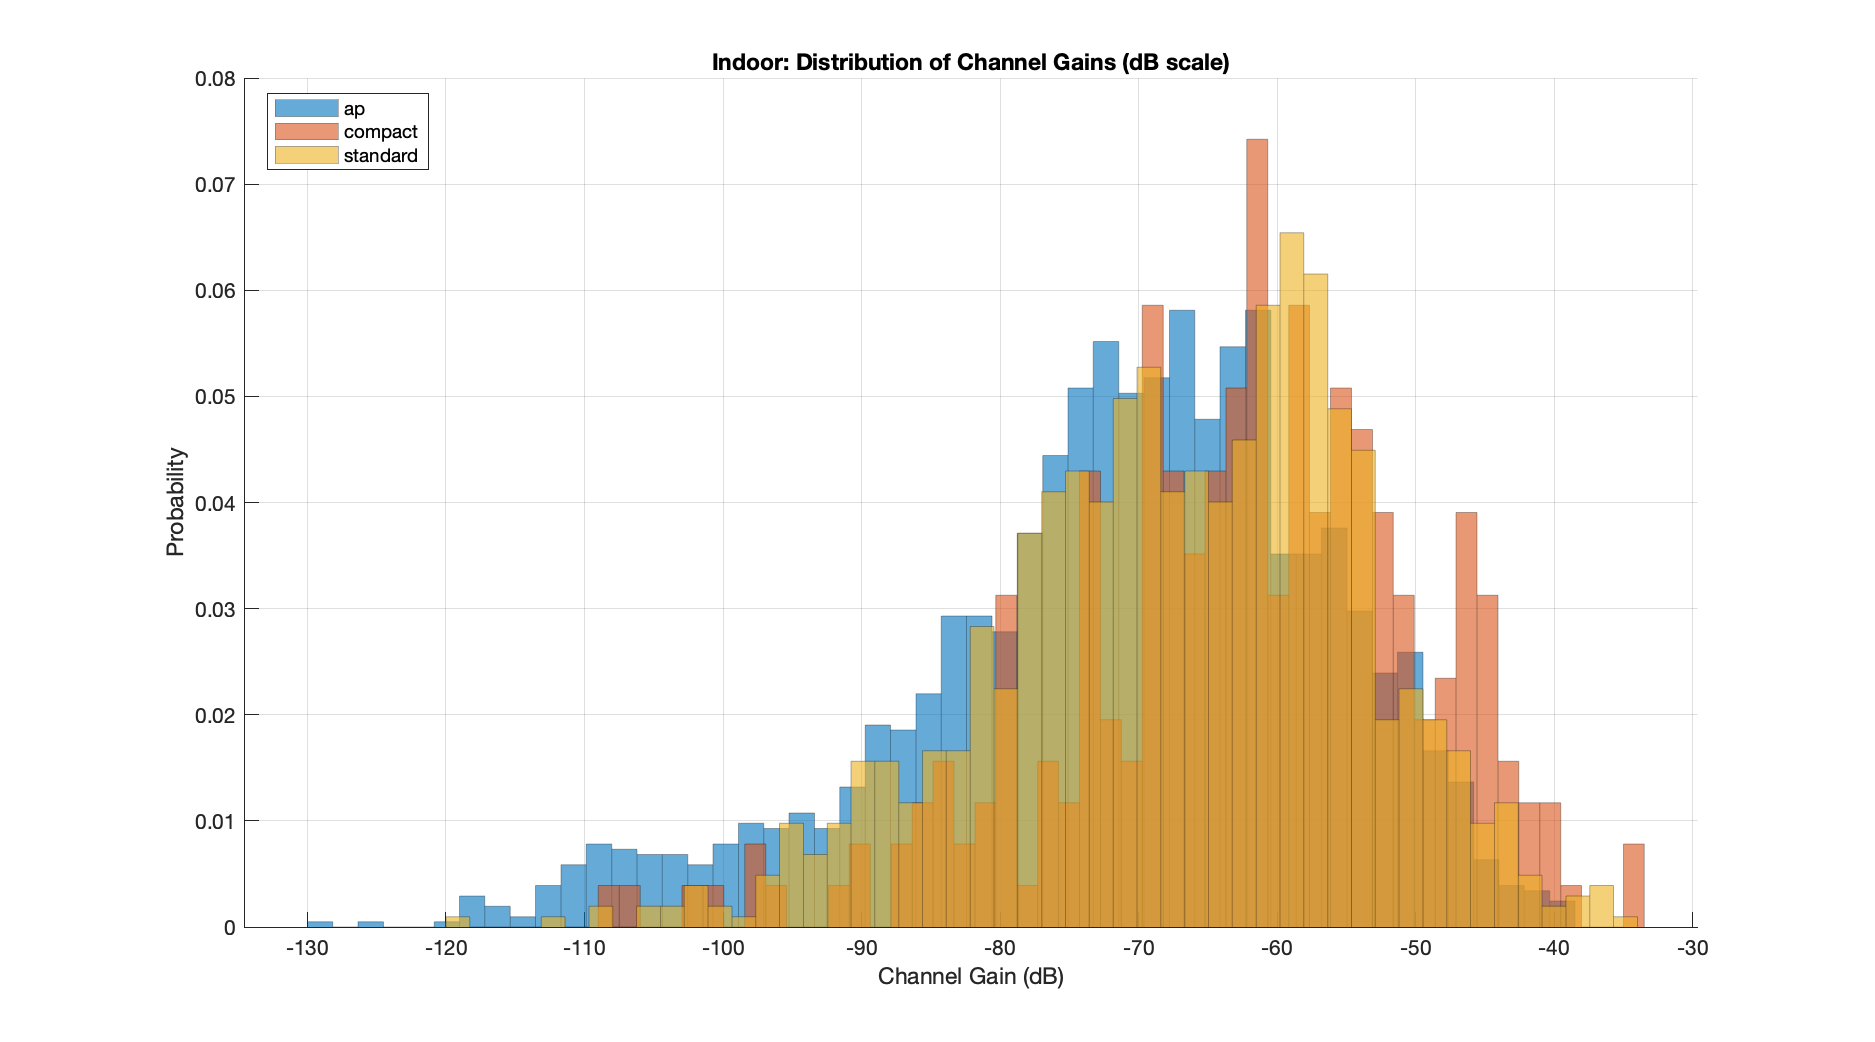
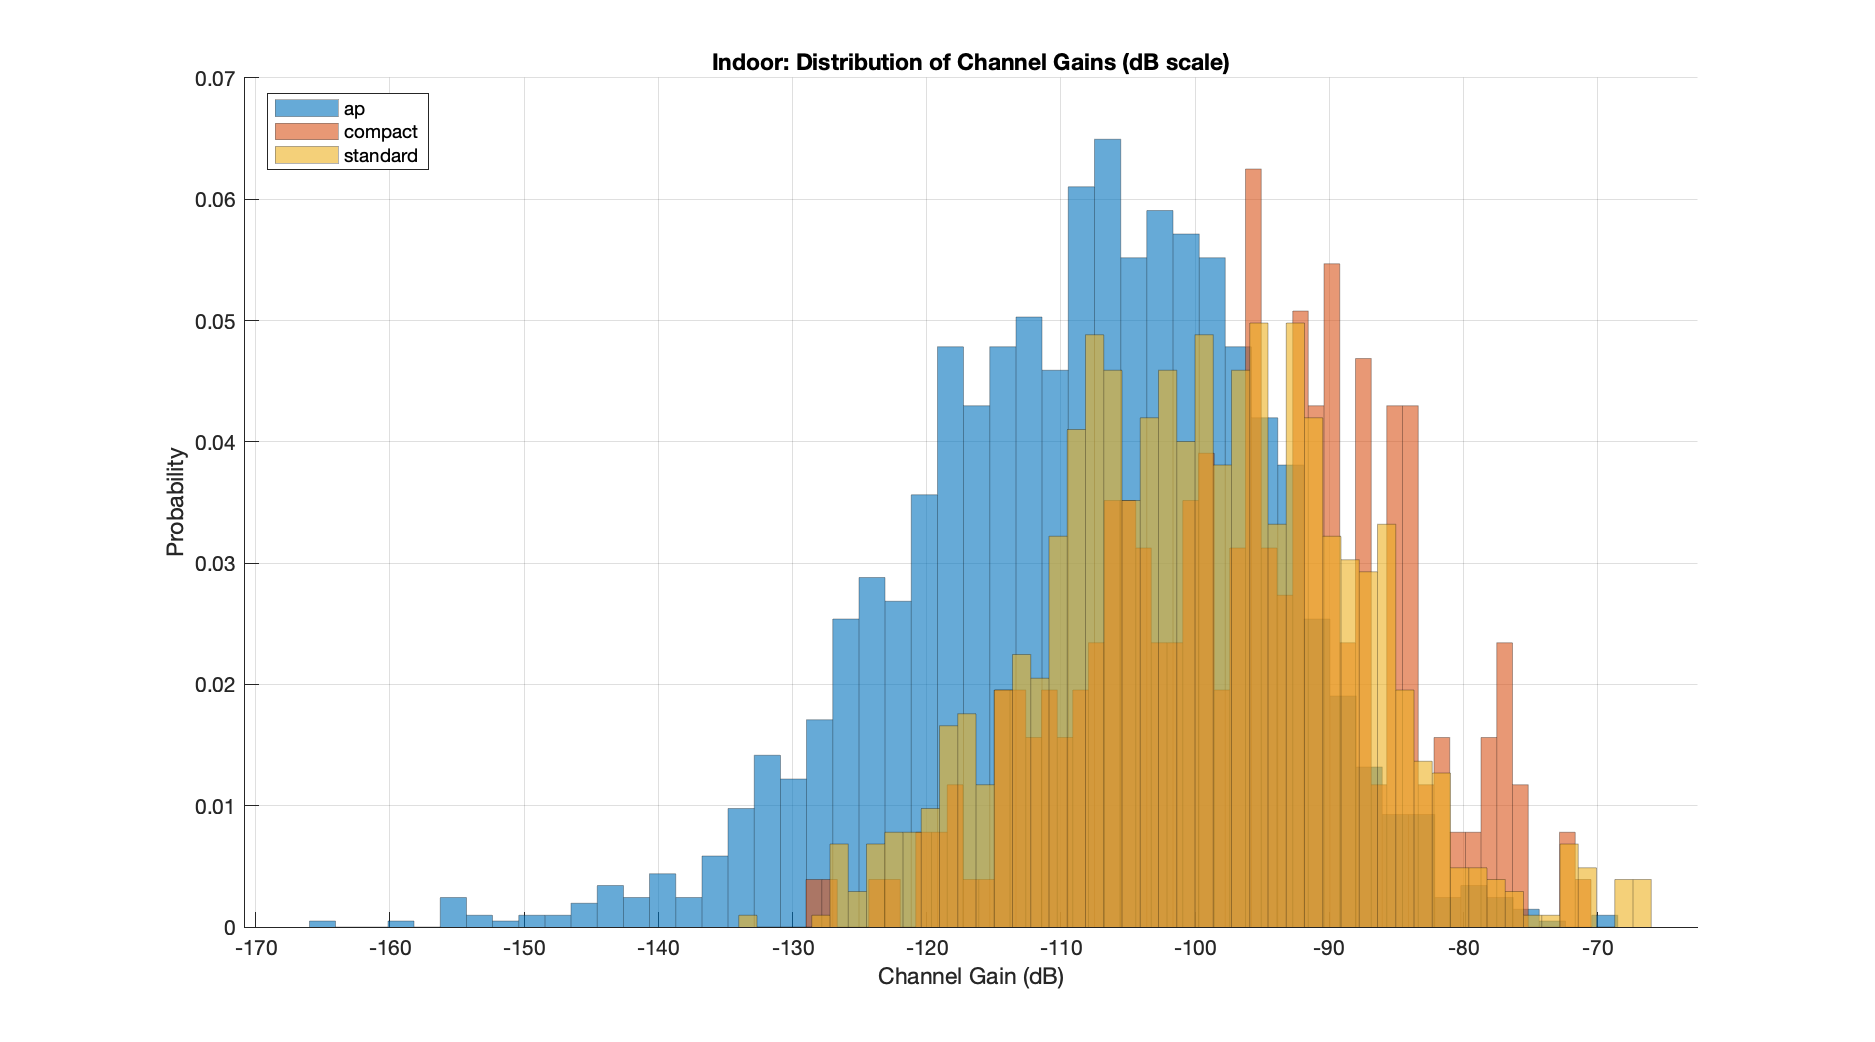
[changes] Changes in the dataset

diff --git a/dataset/analysis_tutorial.m b/dataset/analysis_tutorial.m
@@ -1,0 +1,176 @@
+% %% analysis_3gpp_38901_calibration.m
+% % -------------------------------------------------------------------------
+% % This script assumes you have ALREADY RUN the main "3GPP 38.901 Full Calibration"
+% % script that produced the cell array "c{ic,il}" in your workspace.
+% % It will compute and plot the channel gain distributions for each scenario,
+% % each antenna config (1 or 2), and each frequency.
+% % -------------------------------------------------------------------------
+% 
+% % Make sure the cell array c{ic, il} is in your workspace:
+% % c{ic,il} -> size: (no_rx, no_tx*SOMETHING, no_freq)
+% % Each entry is a 'qd_channel' object with field .coeff
+% 
+% % If you haven't run the main script in this same session, you can do:
+% %   run('the_main_3gpp_calibration_script.m');
+% 
+% % 'select_scenario' in the main script is [1, 2, 3] => UMi, UMa, InH
+% scenario_names = {'UMi','UMa','InH'};  % l(1,il).name
+% % The main code uses select_fequency in {1,2,3,4} => (6 GHz, 30 GHz, 60 GHz, 70 GHz)
+% freq_labels = {'6 GHz','30 GHz','60 GHz','70 GHz'};
+% line_colors = {'b','r','m','k'};  % for each freq
+% 
+% % We'll create one figure per scenario, and in that figure two subplots for config=1 & 2
+% % (If the user only ran a subset of scenarios/frequencies, adapt as needed.)
+% figure('Name','Channel Gain Distributions','Position',[100 100 1300 700]);
+% 
+% for il = select_scenario  % loop over scenario indices
+%     for ic = 1:2          % antenna config: 1 or 2
+% 
+%         % Subplot arrangement: 3 rows (one per scenario), 2 columns (two configs)
+%         subplot_index = (il-1)*2 + ic;  
+%         subplot(3,2,subplot_index);
+%         hold on;
+% 
+%         % We'll gather channel gains for each freq in a separate set of arrays.
+%         legend_handles = [];
+% 
+%         for iF_idx = 1 : no_freq
+%             iF = select_fequency(iF_idx);  % the actual freq index used in main script
+%             all_gains_dB = [];            % store the channel gains for all users & sectors
+% 
+%             % Dimensions of c{ic, il}:
+%             %   c{ic,il} is (no_rx x <some number of TX sectors> x no_freq).
+%             %   For each element c{ic,il}(ir,it,iF) => qd_channel object
+%             %   c{ic,il}(ir,it,iF).coeff => complex matrix of path gains (#delay taps, #Rx ant, etc.)
+% 
+%             [num_rx, num_tx_sectors, ~] = size(c{ic,il});
+% 
+%             for ir = 1 : num_rx
+%                 for it = 1 : num_tx_sectors
+% 
+%                     % Retrieve the channel object
+%                     chan_obj = c{ic,il}(ir, it, iF_idx);
+%                     % If the main script stored them differently, adapt accordingly:
+%                     %  e.g., c{ic,il}(ir,it,iF) vs c{ic,il}(ir,it,iF_idx).
+% 
+%                     % We want the total power across all taps, times, Rx antennas, etc.
+%                     % Usually .coeff is dimension (#time snapshots x #Rx-ant x #MPC?),
+%                     % but it can vary by scenario. 
+%                     % The simplest is to flatten .coeff and sum the power:
+% 
+%                     H = chan_obj.coeff;         % complex matrix
+%                     total_power = sum(abs(H(:)).^2);  % sum of squared magnitude
+%                     gain_dB = 10*log10(total_power);
+% 
+%                     all_gains_dB(end+1) = gain_dB;
+% 
+%                 end
+%             end
+% 
+%             % Now we have an array of gains for this scenario/config/freq.
+%             % We'll plot a CDF for them. For a quick method in MATLAB:
+%             sorted_gains = sort(all_gains_dB);
+%             cdf_vals = (1:length(sorted_gains)) / length(sorted_gains) * 100;  % in percent
+% 
+%             % Plot
+%             lh = plot(sorted_gains, cdf_vals, '-', 'LineWidth', 2, ...
+%                 'Color', line_colors{iF});
+%             legend_handles(end+1) = lh;
+% 
+%         end % iF_idx
+% 
+%         % Cosmetics
+%         grid on; box on;
+%         xlabel('Channel Gain [dB]');
+%         ylabel('CDF [%]');
+%         scenario_name = scenario_names{il};
+%         title(sprintf('%s - Config %d', scenario_name, ic));
+%         legend(legend_handles, freq_labels(select_fequency), 'Location','best');
+%         hold off;
+%     end
+% end
+% 
+% sgtitle('Channel Gain Distributions (sum of |H|^2, in dB) across scenarios, configs, freqs');
+
+
+%% analysis_3gpp_38901_calibration_pdf.m
+%
+% This script calculates and plots PDFs of channel magnitudes in dB:
+%   10 * log10(|h|^2) 
+% across each scenario (UMi / UMa / InH),
+% each antenna configuration (ic = 1 or 2),
+% and each frequency (6 / 30 / 60 / 70 GHz).
+%
+% Prerequisite:
+% You must have already run the 3GPP 38.901 Full Calibration code
+% so that "c{ic, il}" is in your workspace.
+
+% Scenario and frequency labels:
+scenario_names = {'UMi','UMa','InH'};          % l(1,il).name in your code
+freq_labels    = {'6 GHz','30 GHz','60 GHz','70 GHz'};
+line_colors    = {'b','r','m','k'};           % color for each frequency
+bin_edges      = -350:2:-40;                  % dB range for histogram
+
+% We'll make a figure with 3 rows (scenarios) x 2 cols (configs)
+figure('Name','PDF of Channel Magnitude Distributions','Position',[100 100 1300 900]);
+tiledlayout(3,2,'Padding','compact','TileSpacing','compact');
+
+for il = select_scenario          % il in {1,2,3} => UMi, UMa, InH
+    for ic = 1:2                  % antenna config index
+        % Create next tile
+        tile_index = (il-1)*2 + ic;
+        nexttile(tile_index);
+        hold on;
+        
+        % We'll keep track of handles for the legend
+        legend_handles = [];
+        
+        % For each frequency used in the simulation
+        for iF_idx = 1 : no_freq
+            iF = select_fequency(iF_idx);  % actual freq index
+            all_mags_dB = [];
+            
+            % c{ic,il} has size (no_rx, <some # TX sectors>, no_freq)
+            [num_rx, num_tx_sectors, ~] = size(c{ic,il});
+            
+            % Gather magnitudes from each user (ir) and sector (it)
+            for ir = 1 : num_rx
+                for it = 1 : num_tx_sectors
+                    % Get the channel object
+                    chan_obj = c{ic,il}(ir, it, iF_idx);
+                    
+                    % Extract the complex impulse responses
+                    H = chan_obj.coeff;
+                    
+                    % Flatten H, compute 10*log10(|H|^2)
+                    h_mags = abs(H(:));
+                    h_mags_dB = 20*log10(h_mags + eps); % or 10*log10(h_mags.^2)
+                    
+                    % Collect
+                    all_mags_dB = [all_mags_dB; h_mags_dB];
+                end
+            end
+            
+            % Now we have an array of magnitude-dB samples for this scenario+config+freq
+            % We'll plot a histogram with pdf normalization
+            % Use 'DisplayStyle','stairs' for a line plot
+            h_hist = histogram(all_mags_dB, 'BinEdges', bin_edges, ...
+                'Normalization','pdf', 'DisplayStyle','stairs', ...
+                'LineWidth',2, 'EdgeColor', line_colors{iF});
+            
+            % For the legend, we'll store one handle
+            legend_handles(end+1) = h_hist;
+        end
+        
+        % Cosmetics
+        grid on;
+        xlabel('Channel Magnitude [dB] (10 log_{10}|h|^{2})');
+        ylabel('PDF');
+        scenario_str = scenario_names{il};
+        title(sprintf('%s - Config %d', scenario_str, ic));
+        legend(legend_handles, freq_labels(select_fequency), 'Location','best');
+        hold off;
+    end
+end
+
+sgtitle('PDF of Channel Magnitude Distributions: 10 log_{10}(|h|^{2})');

diff --git a/dataset/generate_umi.m b/dataset/generate_umi.m
@@ -11,11 +11,6 @@ function generate_umi(seed)
     bandwidth = 100e6;
     center_frequency = 3.5e9;
     
-    % Transmit power setting (in dBm)
-    TxPower_dBm = 35; 
-    % Convert to an amplitude scale factor (since channel coefficients are in volt-scale)
-    amplitudeScale = 10^(TxPower_dBm/20);
-
     % Define different antenna configurations for UMi
     configs = {
         % Config 1: Standard UMi with +/-45° polarization
@@ -50,7 +45,8 @@ function generate_umi(seed)
         l = qd_layout(s);
         
         % Configure transmitter antenna array
-        l.tx_array = qd_arrayant('3gpp-3d', config.M, config.N, center_frequency, config.pol, config.tilt, config.spacing);
+        l.tx_array = qd_arrayant('3gpp-3d', config.M, config.N, ...
+            center_frequency, config.pol, config.tilt, config.spacing);
         no_tx_ant = l.tx_array.no_elements;
         fprintf('UMi config %s: Using %d transmit antenna elements\n', config.name, no_tx_ant);
         
@@ -60,7 +56,6 @@ function generate_umi(seed)
                 l.rx_array = qd_arrayant('dipole');
                 if config.rx_elements > 1
                     l.rx_array.copy_element(1, 2);
-                    % For +/-45° polarization, rotate the second element
                     if strcmp(config.rx_pol, '+/-45°')
                         l.rx_array.rotate_pattern(45, 'z', 1);
                         l.rx_array.rotate_pattern(-45, 'z', 2);
@@ -80,14 +75,17 @@ function generate_umi(seed)
 
         no_rx_ant = l.rx_array.no_elements;
         l.tx_position = [0; 0; 10];
-        channel_matrix = complex(zeros(no_time_samples, no_tx_ant, no_resource_blocks, no_rx_ant, no_rx));
+        
+        % Prepare storage for channel outputs
+        channel_matrix = complex(zeros(no_time_samples, no_tx_ant, ...
+                                       no_resource_blocks, no_rx_ant, no_rx));
         l.no_rx = no_rx;
         
         % Create user tracks
         for rx_idx = 1:no_rx
             distance = 50 + 150 * rand();
             angle = 2 * pi * rand();
-
+            
             x_pos = distance * cos(angle);
             y_pos = distance * sin(angle);
 
@@ -99,14 +97,14 @@ function generate_umi(seed)
 
             track_length = get_length(t);
             t.movement_profile = [0, no_time_samples; 0, track_length]';
-
+            
             % Determine LOS/NLOS state based on distance
             if rand() < exp(-distance / 150)
                 scenario = '3GPP_38.901_UMi_LOS';
             else
                 scenario = '3GPP_38.901_UMi_NLOS';
             end
-
+            
             t.scenario = {scenario};
             l.rx_track(1, rx_idx) = t;
         end
@@ -114,12 +112,9 @@ function generate_umi(seed)
         % Generate channels
         c = l.get_channels();
         
-        % Process channels (applying Tx-power scaling)
+        % Process channels (no TX-power scaling)
         for rx_idx = 1:no_rx
             freq_channel = c(rx_idx).fr(bandwidth, no_resource_blocks);
-            
-            % Scale the amplitude by 35 dBm offset from 0 dBm
-            freq_channel = freq_channel * amplitudeScale;
             
             for time_idx = 1:min(no_time_samples, size(freq_channel, 4))
                 for tx_ant = 1:no_tx_ant
@@ -134,10 +129,11 @@ function generate_umi(seed)
         end
         
         % Save to file with descriptive name
-        filename = sprintf('outputs/umi_%s_conf_%dtx_%drx.mat', config.name, no_tx_ant, no_rx_ant);
+        filename = sprintf('outputs/umi_%s_conf_%dtx_%drx.mat', ...
+            config.name, no_tx_ant, no_rx_ant);
         save(filename, 'channel_matrix', 'config');
         fprintf('UMi dataset saved to %s with dimensions: [%d, %d, %d, %d, %d]\n', ...
-            filename, size(channel_matrix, 1), size(channel_matrix, 2), size(channel_matrix, 3), ...
-            size(channel_matrix, 4), size(channel_matrix, 5));
+            filename, size(channel_matrix, 1), size(channel_matrix, 2), ...
+            size(channel_matrix, 3), size(channel_matrix, 4), size(channel_matrix, 5));
     end
 end

diff --git a/dataset/generate_indoor.m b/dataset/generate_indoor.m
@@ -10,11 +10,6 @@ function generate_indoor(seed)
     no_resource_blocks = 18; % truncated
     bandwidth = 80e6;
     center_frequency = 5e9;
-    
-    % Transmit power (dBm)
-    TxPower_dBm = 35;
-    % Convert from dBm offset to amplitude scale factor
-    amplitudeScale = 10^(TxPower_dBm / 20);
 
     % Define different antenna configurations for Indoor
     configs = {
@@ -49,7 +44,8 @@ function generate_indoor(seed)
         l = qd_layout(s);
         
         % Configure transmitter antenna array
-        l.tx_array = qd_arrayant('3gpp-3d', config.M, config.N, center_frequency, config.pol, config.tilt, config.spacing);
+        l.tx_array = qd_arrayant('3gpp-3d', config.M, config.N, center_frequency, ...
+                                config.pol, config.tilt, config.spacing);
         no_tx_ant = l.tx_array.no_elements;
         fprintf('Indoor config %s: Using %d transmit antenna elements\n', config.name, no_tx_ant);
         
@@ -79,7 +75,8 @@ function generate_indoor(seed)
 
         no_rx_ant = l.rx_array.no_elements;
         l.tx_position = [0; 0; 3];
-        channel_matrix = complex(zeros(no_time_samples, no_tx_ant, no_resource_blocks, no_rx_ant, no_rx));
+        channel_matrix = complex(zeros(no_time_samples, no_tx_ant, ...
+                                       no_resource_blocks, no_rx_ant, no_rx));
         l.no_rx = no_rx;
         
         % Create user tracks
@@ -117,9 +114,7 @@ function generate_indoor(seed)
         for rx_idx = 1:no_rx
             freq_channel = c(rx_idx).fr(bandwidth, no_resource_blocks);
             
-            % Apply 35 dBm amplitude scaling
-            freq_channel = freq_channel * amplitudeScale;
-            
+            % Store the raw channel (no TX-power scaling)
             for time_idx = 1:min(no_time_samples, size(freq_channel, 4))
                 for tx_ant = 1:no_tx_ant
                     for rb = 1:no_resource_blocks
@@ -133,10 +128,11 @@ function generate_indoor(seed)
         end
         
         % Save to file with descriptive name
-        filename = sprintf('outputs/indoor_%s_conf_%dtx_%drx.mat', config.name, no_tx_ant, no_rx_ant);
+        filename = sprintf('outputs/indoor_%s_conf_%dtx_%drx.mat', ...
+                            config.name, no_tx_ant, no_rx_ant);
         save(filename, 'channel_matrix', 'config');
         fprintf('Indoor dataset saved to %s with dimensions: [%d, %d, %d, %d, %d]\n', ...
-            filename, size(channel_matrix, 1), size(channel_matrix, 2), size(channel_matrix, 3), ...
-            size(channel_matrix, 4), size(channel_matrix, 5));
+            filename, size(channel_matrix, 1), size(channel_matrix, 2), ...
+            size(channel_matrix, 3), size(channel_matrix, 4), size(channel_matrix, 5));
     end
 end

diff --git a/dataset/generate_uma.m b/dataset/generate_uma.m
@@ -11,11 +11,6 @@ function generate_uma(seed)
     bandwidth = 20e6;
     center_frequency = 2.6e9;
     
-    % Transmit power (dBm)
-    TxPower_dBm = 35;
-    % Convert from 35 dBm offset to amplitude scale factor
-    amplitudeScale = 10^(TxPower_dBm / 20);
-
     % Define different antenna configurations for UMa
     configs = {
         % Config 1: Medium array with +/-45° polarization
@@ -81,6 +76,8 @@ function generate_uma(seed)
 
         no_rx_ant = l.rx_array.no_elements;
         l.tx_position = [0; 0; 25];
+        
+        % Prepare storage for channel outputs
         channel_matrix = complex(zeros(no_time_samples, no_tx_ant, ...
             no_resource_blocks, no_rx_ant, no_rx));
         l.no_rx = no_rx;
@@ -116,32 +113,11 @@ function generate_uma(seed)
         % Generate channels
         c = l.get_channels();
         
-        % Process channels (apply +35 dBm offset)
+        % Process channels (no TX-power scaling)
         for rx_idx = 1:no_rx
             freq_channel = c(rx_idx).fr(bandwidth, no_resource_blocks);
-            
-            % Multiply by amplitude scale
-            freq_channel = freq_channel * amplitudeScale;
-            
             for time_idx = 1:min(no_time_samples, size(freq_channel, 4))
                 for tx_ant = 1:no_tx_ant
                     for rb = 1:no_resource_blocks
                         for rx_ant = 1:no_rx_ant
-                            channel_matrix(time_idx, tx_ant, rb, rx_ant, rx_idx) = ...
-                                freq_channel(rx_ant, tx_ant, rb, time_idx);
-                        end
-                    end
-                end
-            end
-        end
-        
-        % Save to file with descriptive name
-        filename = sprintf('outputs/uma_%s_conf_%dtx_%drx.mat', ...
-            config.name, no_tx_ant, no_rx_ant);
-        save(filename, 'channel_matrix', 'config');
-        fprintf('UMa dataset saved to %s with dimensions: [%d, %d, %d, %d, %d]\n', ...
-            filename, size(channel_matrix, 1), size(channel_matrix, 2), ...
-            size(channel_matrix, 3), size(channel_matrix, 4), ...
-            size(channel_matrix, 5));
-    end
-end
+      
